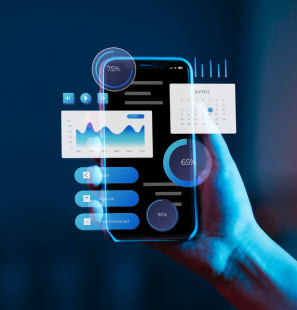
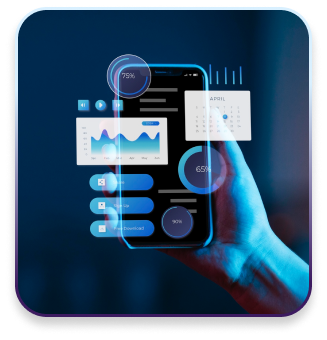
adjust home imagaes size

diff --git a/src/pages/Home.jsx b/src/pages/Home.jsx
@@ -26,15 +26,15 @@ const Home = () => {
   return (
     <>
       <div
-        className="h-[100vh] w-[100vw] bg-home-bg px-[5vw] py-10"
+        className="h-[100vh] w-[100vw] bg-home-bg px-[10vw] py-10 bg-cover"
         style={{
           backgroundSize: "100% 100vh",
         }}
       >
-        <div className="grid grid-cols-2">
+        <div className="grid grid-cols-2 space-x-5">
           <div className="relative">
             {/* <div className="absolute bg-gradient-to-r from-purple-600 to-yellow-500">h111</div> */}
-            <div className="overflow-hidden z-20 h-[450px] w-[38vw] rounded-3xl bg-white bg-opacity-30 backdrop-blur-md font-orbitron text-4xl p-10 font-semibold text-white">
+            <div className="overflow-hidden z-20 h-[400px] w-[40vw] rounded-3xl bg-white bg-opacity-30 backdrop-blur-md font-orbitron text-4xl p-10 px-16 font-semibold text-white">
               Innovative <br />
               solutions in
               <br />
@@ -88,29 +88,33 @@ const Home = () => {
             
           </div>
 
-          <div className="grid grid-cols-2 space-x-4 space-y-4">
+          <div className="flex flex-col">
+            <div className="flex flex-row">
             <div
-              className="bg-grid1_bg bg-center bg-cover bg-no-repeat mt-4 min-h-52 max-h-52"
+              className="bg-grid1_bg bg-center bg-cover bg-no-repeat relative w-[250px] h-[190px] mr-3"
               style={{
-                backgroundSize: "300px 220px",
+                backgroundSize: "250px 190px",
               }}
             ></div>
-            <div className="flex flex-col min-h-48 max-h-52 text-white bg-white bg-opacity-30 backdrop-blur-md rounded-3xl px-6 pt-8 ">
-              <h1 className="font-orbitron text-2xl pb-2">Creative 
+            <div className="flex flex-col text-white bg-white bg-opacity-30 backdrop-blur-md rounded-3xl px-6 max-w-[230px] max-h-[170px] mt-2 pt-2">
+              <h1 className="font-orbitron text-xl pb-2">Creative 
               Solutions</h1>
-              <p>Turn visionary ideas into practical solutions that inspire and engage.</p>
+              <p className="text-sm">Turn visionary ideas into practical solutions that inspire and engage.</p>
             </div>
-            <div className=" bg-white bg-opacity-30 backdrop-blur-md text-white rounded-3xl min-h-52 max-h-52  px-6 pt-8">
-            <h1 className="font-orbitron text-2xl pb-2">Adaptable
+            </div>
+            <div className="flex flex-row mt-4">
+            <div className=" bg-white bg-opacity-30 backdrop-blur-md text-white rounded-3xl px-6 pt-2 max-w-[230px] max-h-[180px] ml-3 mt-2 mr-3">
+            <h1 className="font-orbitron text-xl pb-2 ">Adaptable
             Systems</h1>
-              <p>Enjoy flexible and scalable digital solutions designed to evolve with your business needs</p>
+              <p className="text-sm">Enjoy flexible and scalable digital solutions designed to evolve with your business needs</p>
             </div>
             <div
-              className="bg-grid4_bg bg-center bg-cover bg-no-repeat mt-2 rounded-3xl min-h-52 max-h-52"
+              className="bg-grid4_bg bg-center bg-cover bg-no-repeat w-[250px] h-[190px] mt-2"
               style={{
-                backgroundSize: "300px 220px",
+                backgroundSize: "250px 190px",
               }}
             ></div>
+            </div>
           </div>
         </div>
       </div>
